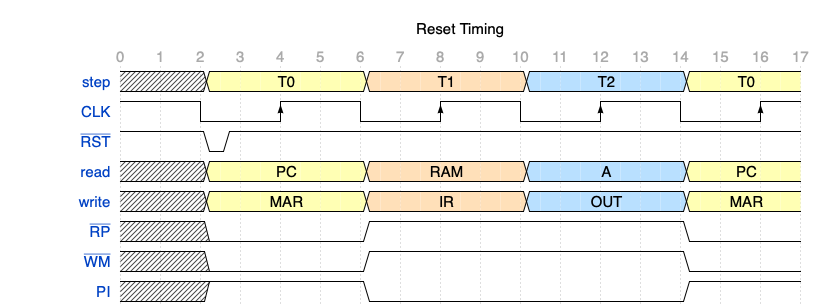
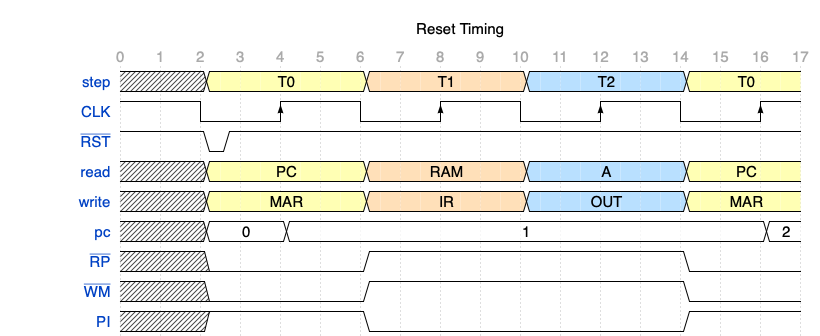
update instruction timing docs

diff --git a/docs/_docs/ref-200-instruction-cycle.md b/docs/_docs/ref-200-instruction-cycle.md
@@ -8,7 +8,7 @@ The SAP-Plus instruction cycle is driven by the Instruction Register (IR) and St
 
 Each instruction step causes actions on both the falling and rising edge of each CLK pulse. The Step Counter changes on every falling CLK edge, so this is when each microinstruction step asserts new control signals.  Register read selects cause a register value to be read onto the bus at this time.  The registers load on a rising CLK edge, so the value from the bus is clocked into the selected write register on the rising edge.
 
-For a concrete example, the [WaveDrom timing diagram](https://wavedrom.com/) below shows the execution of a Load A Immediate (LAI) instruction, followed by an OUT A instruction.
+For a concrete example, the [WaveDrom timing diagram](https://wavedrom.com/) below shows the execution of a Load A Immediate (LAI) instruction at RAM address 0, followed by an OUT A instruction at RAM address 2.
 
 [![Instruction timing](../../assets/images/timing-lai-out.png "Timing of LAI and OUT instructions")](../../assets/images/timing-lai-out.png)
 
@@ -18,13 +18,13 @@ Load A Immediate is a two-byte instruction.  The A register is loaded with the v
 
 **Marker 1**: the falling edge of CLK sets the Step Counter (SC) to _T0_.  This step asserts the Read PC and Write MAR signals to get the address of the next instruction.  The PC Increment (PI) signal is also asserted.  At this point, the Program Counter (PC) contents are read onto the bus.
 
-**Marker 2**: the rising edge of the clock causes the bus contents to be written into the Memory Address Register (MAR).  The PC is also incremented.
+**Marker 2**: the rising edge of the clock causes the PC value on the bus to be written into the Memory Address Register (MAR).  The PC is also incremented.
 
 **Marker 3**: the falling CLK edge increments the Step Counter to enter step _T1_.  This asserts the Read RAM and Write IR signals.  At this point, the RAM contents at the MAR address are read onto the bus.
 
-**Marker 4**: the rising CLK edge loads the contents of RAM into the Instruction Register (IR).  This is the end of the _T0_ and _T1_ instruction fetch steps.  The Microcode ROM is now executing the LAI instruction's microcode steps.
+**Marker 4**: the rising CLK edge loads the contents of RAM into the Instruction Register (IR).  This is the end of the common _T0_ and _T1_ instruction fetch steps.  The Microcode ROM is now executing the LAI instruction's microcode steps.
 
-**Markers 5..6**: the MAR is loaded from the PC and the PC is incremented in step _T2_, exactly as was done in step T0.  This fetches the address of the instruction operand.
+**Markers 5..6**: the MAR is loaded from the PC and the PC is incremented in step _T2_, exactly as was done in step T0.  This fetches the memory address of the instruction operand.
 
 **Markers 7..8**: in step _T3_, the RAM contents are loaded into the A register.  The Next (N) signal is also asserted in this step, which will reset the SC back to step 0 (_T0_) to end the instruction.  The N reset is synchronous and will occur at the falling CLK edge at **marker 9**.
 
@@ -45,11 +45,11 @@ The Instruction Register does not get loaded until midway through the _T1_ micro
 
 ## SAP-Plus 2nd Instruction Register (IR2)
 
-SAP-Plus uses a double-buffered Instruction Register (IR) to mitigate the [EEPROM Glitch](https://tomnisbet.github.io/sap-plus/docs/eeprom-glitch/#sap-plus-design-to-avoid-the-glitch) that happens when the address lines of the microcode EEPROMs are changed.  As shown in the timing diagram of the previous section, The IR2 register is loaded from the IR on every falling clock edge. The microcode address lines are driven by IR2 instead or IR.  This means that the address lines only change when the Step Counter or IR2 values change, and both of these conditions only occur on a falling clock edge.
+SAP-Plus uses a double-buffered Instruction Register (IR) to mitigate the [EEPROM Glitch](https://tomnisbet.github.io/sap-plus/docs/eeprom-glitch/#sap-plus-design-to-avoid-the-glitch) that happens when the address lines of the microcode EEPROMs are changed.  As shown in the timing diagram of the previous section, the IR2 register is loaded from the IR on every falling clock edge. The Microcode ROM address lines are driven by IR2 instead or IR. This means that the address lines only change when the Step Counter or IR2 values change, and both of these conditions only occur on a falling clock edge.
 
 ## Reset Timing
 
-The diagram below shows the system reset sequence.  In this example, the program at address 0 is starts with an OUT instruction.
+The diagram below shows the system reset sequence.  In this example, the program at RAM address 0 starts with an OUT instruction.
 
 [![reset timing](../../assets/images/timing-reset.png "Timing of the reset condition")](../../assets/images/timing-reset.png)
 
@@ -57,4 +57,6 @@ The diagram below shows the system reset sequence.  In this example, the program
 
 **Marker 4**: the rising edge of CLK clocks the PC contents into the MAR and increments the PC.  Because the PC was cleared by the RST signal, the first _T0_ cycle after a reset event always loads zero into the MAR.
 
-**Marker 6**: the _T1_ cycle loads the instruction opcode at address zero into the IR.  Program-specific code begins executing after this microinstruction cycle.
+**Marker 6**: the _T1_ cycle loads the instruction opcode at address zero into the IR.  Program-specific code begins executing after this microinstruction cycle.  
+
+In the case of the OUT instruction, the _T2_ step transers the _A_ register to the _OUT_ register and sets the _N_ signal to indicate that the instruction is complete.

diff --git a/docs/_docs/design-400-ir-sc.md b/docs/_docs/design-400-ir-sc.md
@@ -20,7 +20,7 @@ With a 4-bit counter, an instruction can have as many as sixteen steps, but most
 
 The Step Counter is implemented using a 74LS161 4-bit counter.  This counter can be reset in two ways.  The SAP-Plus _RST_ signal is connected to the reset signal of the counter.  This provides an asychronous reset of the SC whenever _RST_ is pulled low.  This reset does not depend on the _CLK_ signal.  Holding _RST_ low will not only reset the counter, it will also prevent counting until the _RST_ is released.  The Loader uses this to prevent counting during the system self test.
 
-Because most instructions will have fewer than 16 steps, the _N_ signal from the microcode can be used to end an instruction without executing all sixteen microinstruction steps.  The _N_ signal is tied to the 74LS161's Parallel Enable (_PE_) pin and the data inputs are all tied to _GND_.  When _N_ is asserted, the SC will load all zeroes from its data inputs, effectively doing a synchronous reset on the next _CLK_ pulse.  Instructions with fewer than 16 steps include the _N_ bit in their final microcode step.
+Because most instructions will have fewer than 16 steps, the _N_ signal from the microcode can be used to end an instruction without executing all sixteen microinstruction steps.  The _N_ signal is tied to the 74LS161's Parallel Enable (_PE_) pin and the data inputs are all tied to _GND_.  When _N_ is asserted, the SC will load all zeroes from its data inputs, effectively doing a synchronous reset on the next falling _CLK_ edge.  Instructions with fewer than 16 steps include the _N_ bit in their final microcode step.
 
 [![Instruction Register and Step Counter schematic](../../assets/images/ir-sc-schematic-small.png "Instruction Register and Step Counter schematic")](../../assets/images/ir-sc-schematic.png)
 
